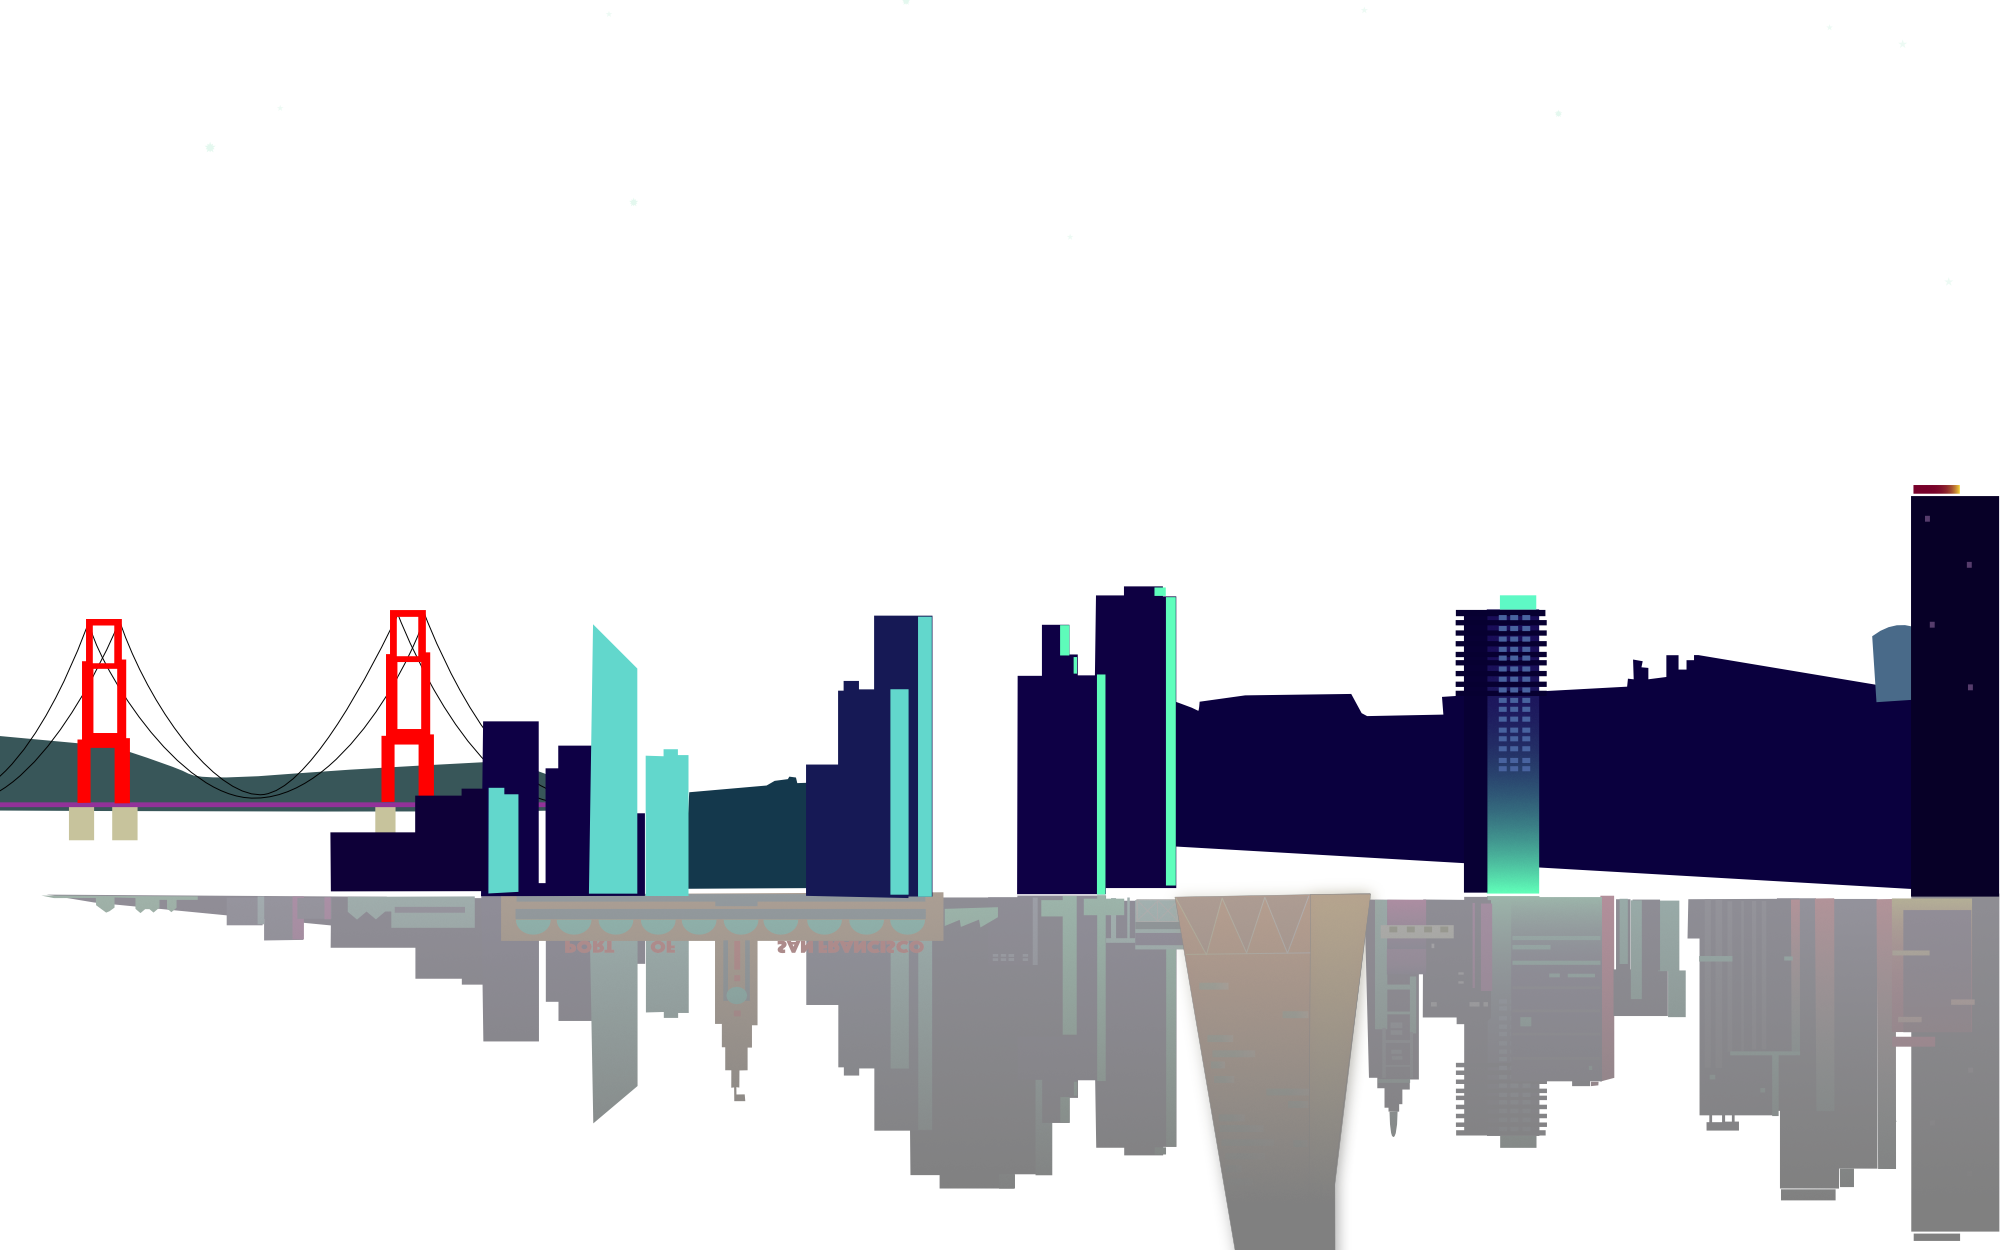
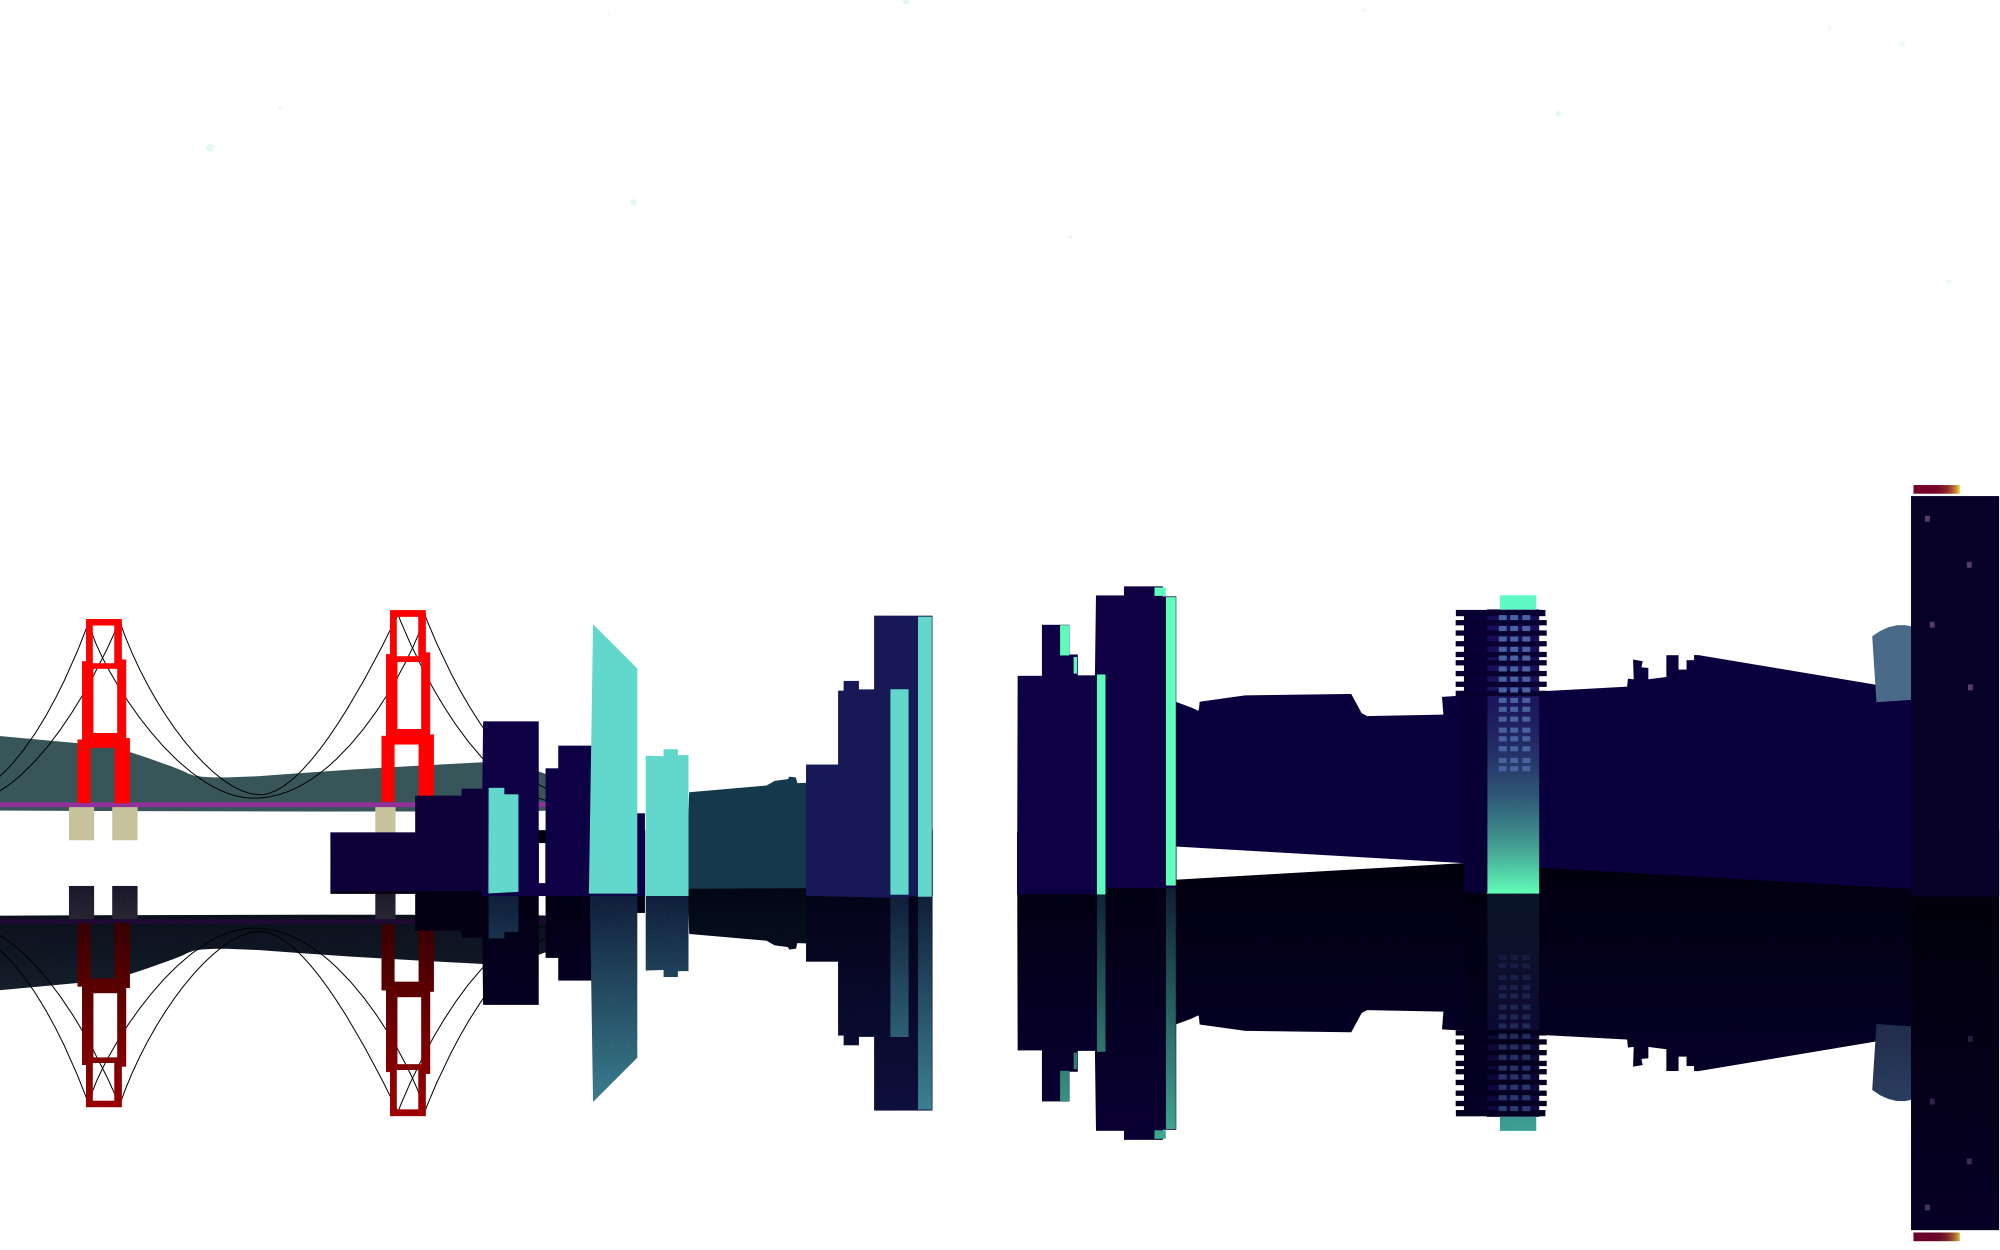
fixed reflection and bay and sky

Changed region(s): [[0.0, 0.6864, 1.0, 1.0]]

diff --git a/js/main.js b/js/main.js
@@ -15,7 +15,12 @@ samEyesCloseDiv = document.getElementById("eyes-closed"),
 shiftSamFrameTimer,
 counter = 0,
 canAnimate,
-testFrames = document.getElementById("test");
+testFrames = document.getElementById("test"),
+running,
+standing,
+timeout,
+test = document.getElementById("test"),
+count = 0;
 // function handleMove(e) {
 //   e.preventDefault();
 //   1 == canScrollOrSwipe && (detectPageVerticalPosition(),
@@ -48,24 +53,58 @@ window.onscroll = function(e) {
     runTheseFunctionsAfterScrollOrSwipe();
 };
 
+function standingAni() {
+  timeout = setTimeout(function(){
+    if(count < 8 || count > 10) { count = 8;}
+    test.style.left = (count * -175) + "px";
+    count += 1;
+    standing = requestAnimationFrame(standingAni);
+  },(1000/9));
+}
+
+$(document).on("scrollstop",function(){
+  cancelAnimationFrame(running);
+  clearTimeout(timeout);
+  standingAni();
+});
+
+function runningAni() {
+  timeout = setTimeout(function(){
+    if(deltaPageVerticalPosition < 0) {
+      if(count < 0) { count = 7; }
+      test.style.left = (count * -175) + "px";
+      count -= 1;
+    }else {
+      if(count > 7) { count = 0; }
+      test.style.left = (count * -175) + "px";
+      count += 1;
+    }
+    running = requestAnimationFrame(runningAni);
+  },(1000/9));
+}
+
+$(document).on("scrollstart",function(){
+  cancelAnimationFrame(standing);
+  clearTimeout(timeout);
+  runningAni();
+});
+
 function detectPageVerticalPosition(){
   previousPageVerticalPosition = pageVerticalPosition;
   pageVerticalPosition = window.scrollY;
   deltaPageVerticalPosition = pageVerticalPosition - previousPageVerticalPosition;
-  console.log(deltaPageVerticalPosition);
 }
 
 function runningAnimation() {
-  // if(deltaPageVerticalPosition > 0) {
-  //   samFramesDiv.style.top = "200px";
-  // }
+  console.log(deltaPageVerticalPosition);
+
 }
 
 function runTheseFunctionsAfterScrollOrSwipe() {
   detectPageVerticalPosition();
-  runningAnimation();
   moveLayers();
   orientSam();
+  runningAnimation();
   // animateSam();
 }
 
@@ -82,10 +121,8 @@ function storeDivs() {
 }
 
 function orientSam() {
-    deltaPageVerticalPosition > 0 && (testFrames.style.top = "0px",
-    samEyesCloseDiv.style.left = "90px"),
-    0 > deltaPageVerticalPosition && (testFrames.style.top = "-200px",
-    samEyesCloseDiv.style.left = "55px")
+    deltaPageVerticalPosition > 0 && (testFrames.style.top = "0px"),
+    0 > deltaPageVerticalPosition && (testFrames.style.top = "-200px")
 }
 
 function animateSam() {
@@ -119,5 +156,5 @@ function shiftSamFrame() {
 }
 
 function setStaticFrame() {
-    samFramesDiv.style.left = "0px"
+    samFramesDiv.style.left = "0px";
 }

diff --git a/index.html b/index.html
@@ -7,6 +7,7 @@
     <!-- <link rel="stylesheet" href="./css/reset.css" media="screen" title="no title" charset="utf-8"> -->
     <title></title>
 
+
     <style media="screen">
       #container1 {
         width: 175px;
@@ -29,6 +30,7 @@
       <div id="page">
         <div id="container">
           <div class="layer-horizontal" id="layer-horizontal-1">
+            <div class="background" id="bay"></div>
             <div class="background" id="back"></div>
           </div>
           <div class="layer-horizontal" id="layer-horizontal-1-2">
@@ -86,25 +88,9 @@
         </div>
       </div>
     </div>
-    <script type="text/javascript" src="./js/main.js"></script>
 
-    <script type="text/javascript">
-      var test = document.getElementById("test");
-      var direction = test.style.top;
-      var count = 0;
-      window.setInterval(()=>{
-        direction = test.style.top;
-        console.log(direction)
-        if(direction == "-200px") {
-          if(count === 0) { count = 7 };
-          test.style.left = (count * -175) + "px"
-          count -= 1;
-        }else {
-          if(count === 8) { count = 0 };
-          test.style.left = (count * -175) + "px"
-          count += 1;
-        }
-      }, 100)
-    </script>
+<script src="http://code.jquery.com/jquery-1.11.3.min.js"></script>
+<script src="http://code.jquery.com/mobile/1.4.5/jquery.mobile-1.4.5.min.js"></script>
+    <script type="text/javascript" src="./js/main.js"></script>
   </body>
 </html>

diff --git a/css/layers.css b/css/layers.css
@@ -94,6 +94,12 @@
   background-image: url(../imgs/sf-bg-back.png);
 }
 
+#bay {
+  background-image: url(../imgs/bay.png);
+  background-repeat: repeat;
+  background-position: top;
+}
+
 #cloud-1 {
     left: 1500px;
     top: 10%;
